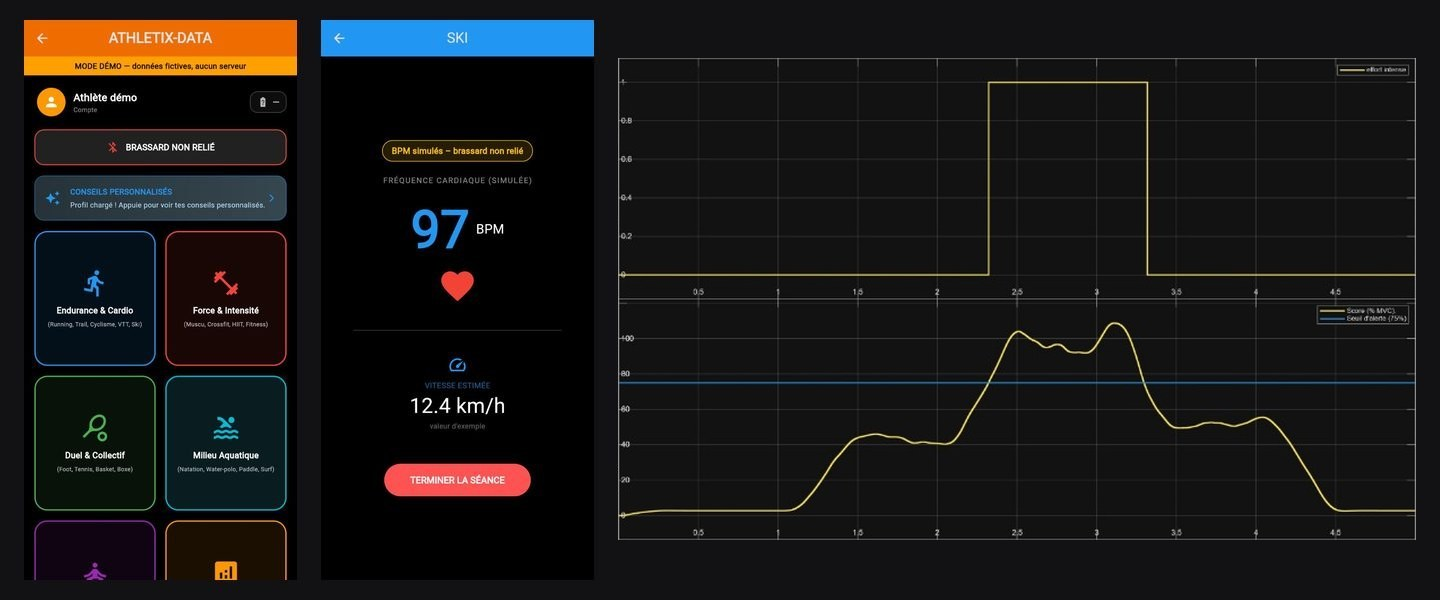
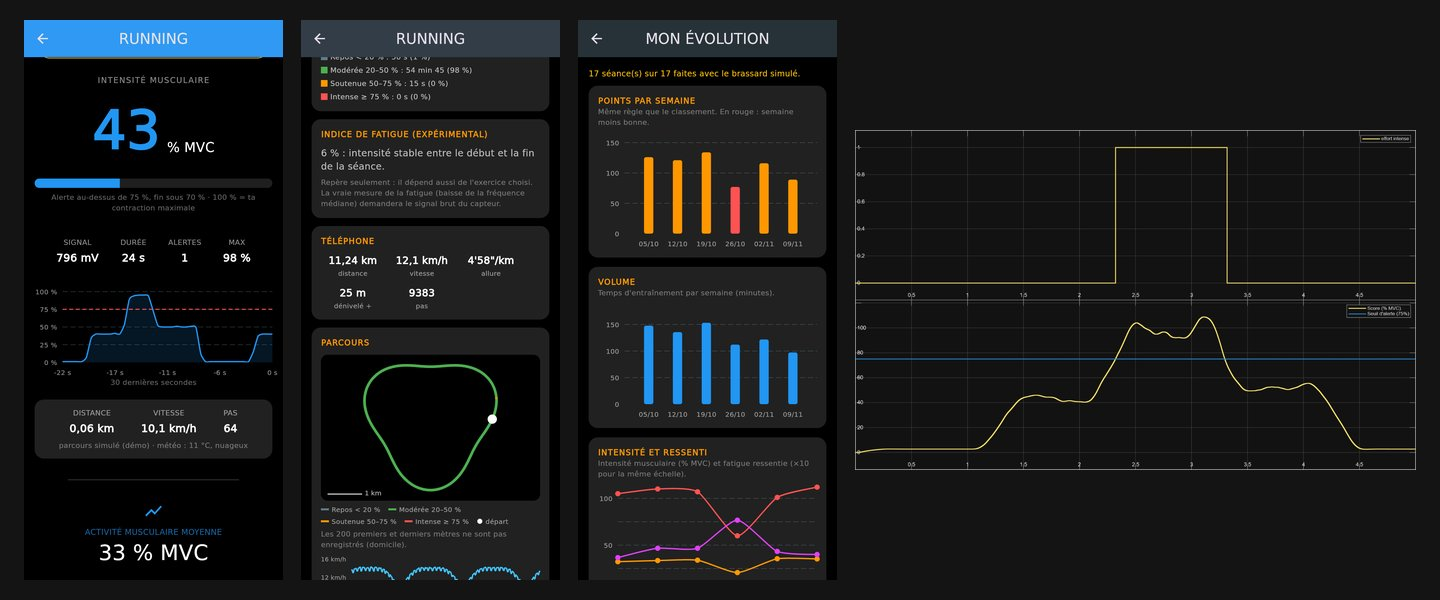
Carte Athletix-Data : parcours, évolution, natation, carnet PDF, RGPD, tests ; nouvelle image

diff --git a/index.html b/index.html
@@ -809,13 +809,13 @@
           </div>
         </article>
         <article class="project-card project-card--wide" data-tags="electronique sante embarque">
-          <div class="card-media card-media--fit"><img src="assets/projets/athletix-data.jpg" alt="Deux écrans de l'application Athletix-Data (accueil et séance) et résultat de la simulation Simulink du brassard EMG" data-i18n-attr="alt:p9.img" width="1440" height="600" loading="lazy" decoding="async"></div>
+          <div class="card-media card-media--fit"><img src="assets/projets/athletix-data.jpg" alt="Trois écrans de l'application Athletix-Data (séance en direct, parcours, évolution) et résultat de la simulation Simulink du brassard EMG" data-i18n-attr="alt:p9.img" width="1440" height="600" loading="lazy" decoding="async"></div>
           <div class="card-top">
             <span class="card-type" data-i18n="tag.electronics">Électronique</span>
             <span class="card-date" data-i18n="p9.date">Juin 2026</span>
           </div>
           <h3 data-i18n="p9.title">Athletix-Data : brassard EMG connecté et application de suivi sportif</h3>
-          <p data-i18n="p9.desc">Projet de groupe à l'EPISEN, mené avec Maxence Olivier et Othmen Al Bydeoi, dont j'ai été le chef de projet. Un brassard mesure l'activité du biceps : capteur MyoWare 2.0, SparkFun ESP32-S3 (conversion 12 bits à 500 Hz, valeur efficace sur 200 ms, envoi en Bluetooth Low Energy) et batterie LiPo. Ma partie : la conduite du projet, le schéma électrique et le câblage du brassard, le firmware ESP32, l'acquisition et le calcul RMS, et l'application Flutter avec son API PHP/MySQL sécurisée (inscription vérifiée par e-mail, profil, conseils, classement). Maxence a modélisé la chaîne de mesure sous Simulink, Othmen a rédigé l'architecture Bluetooth. Le matériel n'est pas encore reçu : pendant une séance, l'application affiche les mesures d'un brassard simulé, indiqué comme tel.</p>
+          <p data-i18n="p9.desc">Projet de groupe à l'EPISEN, mené avec Maxence Olivier et Othmen Al Bydeoi, dont j'ai été le chef de projet. Un brassard mesure l'activité du biceps : capteur MyoWare 2.0, SparkFun ESP32-S3 (conversion 12 bits à 500 Hz, valeur efficace sur 200 ms, envoi en Bluetooth Low Energy) et batterie LiPo. Ma partie : la conduite du projet, le schéma électrique et le câblage du brassard, le firmware ESP32, l'acquisition et le calcul RMS, et l'application Flutter avec son API PHP/MySQL sécurisée (inscription vérifiée par e-mail, profil, conseils, classement). Maxence a modélisé la chaîne de mesure sous Simulink, Othmen a rédigé l'architecture Bluetooth. L'application suit aussi le parcours GPS, l'évolution semaine par semaine et la natation (le brassard garde la séance quand le Bluetooth ne passe plus sous l'eau), exporte un carnet PDF pour les soignants et permet de télécharger ou de supprimer ses données ; ses tests et ceux de l'API tournent sur GitHub à chaque envoi. Le matériel n'est pas encore reçu : pendant une séance, l'application affiche les mesures d'un brassard simulé, indiqué comme tel.</p>
           <ul class="tags"><li>ESP32-S3</li><li>MyoWare 2.0</li><li>Bluetooth LE</li><li>Simulink</li><li>Flutter / Dart</li><li>PHP / MySQL</li></ul>
           <div class="card-foot">
             <span class="card-context" data-i18n="projects.contextTeam">Projet de groupe · EPISEN, 3 étudiants</span>

diff --git a/traduction-anglais.js b/traduction-anglais.js
@@ -234,7 +234,7 @@ window.I18N_EN = {
   'projects.contextTeam': 'Group project · EPISEN, 3 students',
   'p9.date': 'Jun 2026',
   'p9.title': 'Athletix-Data: connected EMG armband and sports-tracking app',
-  'p9.desc': 'Group project at EPISEN with Maxence Olivier and Othmen Al Bydeoi, which I led. An armband measures biceps activity: MyoWare 2.0 sensor, SparkFun ESP32-S3 (12-bit conversion at 500 Hz, 200 ms RMS, Bluetooth Low Energy) and a LiPo battery. My part: running the project, the armband wiring diagram and wiring, the ESP32 firmware, acquisition and RMS computation, and the Flutter app with its secured PHP/MySQL API (e-mail-verified sign-up, profile, advice, leaderboard). Maxence modelled the measurement chain in Simulink, Othmen wrote the Bluetooth architecture. The hardware has not arrived yet: during a workout, the app shows readings from a simulated armband, labelled as such.',
+  'p9.desc': 'Group project at EPISEN with Maxence Olivier and Othmen Al Bydeoi, which I led. An armband measures biceps activity: MyoWare 2.0 sensor, SparkFun ESP32-S3 (12-bit conversion at 500 Hz, 200 ms RMS, Bluetooth Low Energy) and a LiPo battery. My part: running the project, the armband wiring diagram and wiring, the ESP32 firmware, acquisition and RMS computation, and the Flutter app with its secured PHP/MySQL API (e-mail-verified sign-up, profile, advice, leaderboard). Maxence modelled the measurement chain in Simulink, Othmen wrote the Bluetooth architecture. The app also tracks the GPS route, week-by-week progress and swimming (the armband keeps the session when Bluetooth cannot reach it under water), exports a PDF log for carers and lets users download or delete their data; its tests and the API tests run on GitHub on every push. The hardware has not arrived yet: during a workout, the app shows readings from a simulated armband, labelled as such.',
   'tag.signal': 'Signal processing',
   'projects.contextMatlab': 'Course project · EPISEN, ECUE 325',
   'p10.date': 'Sept 2026',
@@ -382,7 +382,7 @@ window.I18N_EN = {
   'p20.img': 'Bearing verdict and life curve',
   'p21.img': 'Wing deformed shape coloured by stress, with support reactions',
   'p7.img': 'Pharmacy back-office dashboard (demo)',
-  'p9.img': 'Two Athletix-Data app screens (home and session) and the Simulink simulation result of the EMG armband',
+  'p9.img': 'Three Athletix-Data app screens (live session, route, progress) and the Simulink simulation result of the EMG armband',
   'p8.img': 'SantéConnect patient area (demo)',
   'p6.img': 'Hand tracking demo page',
   'p10.img': 'Reference signal, distorted signal and FFT spectrum (demo)',

diff --git a/FICHE-PROJET.md b/FICHE-PROJET.md
@@ -131,7 +131,7 @@ Images des cartes (nov. 2026, demandé par Valentin pour alléger) : chaque cart
 - [x] Projet 47 (nov. 2026, idée de Valentin : « ski, snowboard… école d'ingé, santé ») : outils/sports-hiver/ (index.html + hiver.js + tests/test.js, 470 tests), projet personnel, aucune source externe à protéger. 7 onglets : 1) glisse (schuss RK4 = solution exacte v_t·tanh, frottement + traînée + ρ(altitude), pistes verte/bleue/rouge/noire, skieur debout / recherche de vitesse / snowboardeur, énergie → hauteur de chute équivalente ; virage coupé : R = R_sc cos θ (Howe), sin θ = v²/(g R_sc), vitesse maxi √(g R_sc), facteur de charge, skieur incliné) ; 2) genou : torsion 1 ddl, fixation en série avec la jambe, seuil réglable, 4 situations (virage normal, carre qui accroche, chute lente, choc bref filtré), amplification dynamique, limite LCA (« pied fantôme ») ; JAMAIS de calcul de réglage DIN personnel (avertissement : technicien certifié, ISO 11088) ; 3) poignet (snowboard) : impact masse-ressort, neige poudreuse/damée/glacée, protège-poignet (plateau), seuil 2 500 N indicatif ; 4) casque : mousse EPS à plateau + aire de calotte, surface en série, HIC 15 ms, risque AIS ≥ 3 (Prasad-Mertz / NHTSA), test EN 1077 5,42 m/s / 250 g, densification à grande vitesse ; 5) avalanche : dipôle magnétique, recherche par lignes de flux (clic = départ), distance affichée surestimée jusqu'à ×1,26, durée de sauvetage (premier signal, suivi, fine, sondage, pelletage 12 min/m seul ÷ n^0,8), survie Brugger 2001 ; 6) froid : indice JAG/TI 2001 + vitesse du skieur, catégories Environnement Canada ; 7) vérifications. Seuils ILLUSTRATIFS, « pas un outil médical ». Carte p47 après p46 (banc d'optique), filtres mecanique + sante + signal + web, type tag.sport (« Sport et santé »), contexte projects.contextTool. Dépôt PUBLIC ski-snowboard-physique (créé vide par Valentin, affiché « Ski-snowboard-physique », rempli par la session cloud : README FR/EN avec avertissements, demo/ = copie avec lien retour absolu, images/apercu.jpg) ; « Voir le code » sur la carte ; modifier les DEUX copies.
 - [x] Bulle « Énergie » (nov. 2026, demandée par Valentin ; clé tag.energy, data-filter « energie », placée après Électronique) : génératrice d'éolienne (p38) + bobine Tesla (p17). Compteur de projets en haut à gauche de la barre : proposé puis REFUSÉ par Valentin (ne pas le remettre).
 - [x] Nov. 2026 (demandé par Valentin) : bulle « Embarqué » (clé tag.embedded, data-filter « embarque », DERNIÈRE après Web) = projets avec code sur microcontrôleur : transporteur (p32), balnéo (p33), truites (p35), maison connectée (p43), éolienne (p38), Athletix ESP32 (p9). Titre « 02 Projets » : nombre total de cartes au bout de la ligne (discret, gris mono, calculé par script.js via data-count, aligné sur le bord droit de la grille) — pour Valentin, pas d'intitulé.
-- [ ] Athletix-Data = en réalité projet de groupe MESPI (EPISEN, 4 membres, fév.–juin 2026) ; version FINALE = brassard EMG : MyoWare 2.0 + Link Shield + SparkFun Thing Plus ESP32-S3 + LiPo 1500 mAh + BLE + appli Flutter (devis final et compte rendu jalon 4 fournis par Valentin, nov. 2026). Nov. 2026, DÉCISION DE VALENTIN (« c'est un truc propre ») : les NOMS de l'équipe sont affichés (exception à la règle « ne jamais nommer ») : Valentin Auger, Maxence Olivier, Othmen Al Bydeoi (3 = couverture du compte rendu et devis ; Akram Boutabaa, cité dans le corps du compte rendu, RETIRÉ car absent de la couverture). Fait : README du dépôt (équipe + rôles, brassard final, historique PPG, hardware/simulation-emg/ avec figure + limites + corrections prévues ; version CORRIGÉE vérifiée dans le .slx du Drive (dossier « AthletixData_EMG_Simulation(1).slx », décompressé) : Ts 0,0005, Cov 7,1e-9, passe-bande, Lookup 0,95, gain 1000, secteur 0,00008, Relay 75/70 ; page simulation-emg/ réécrite (figure resultat-simulation-corrigee.png recadrée d'une capture, ancienne figure gardée en historique) et image de carte mise à jour ; fichier .slx FINAL publié (hardware/simulation-emg/AthletixData_EMG_Simulation.slx, R2026b, reconstruit depuis le dossier décompressé du Drive, tailles vérifiées) ; présenté comme une EXPÉRIMENTATION (modèle d'essai, pas une mesure sur le brassard), à la demande de Valentin ; figure en meilleure résolution + schema-modele.png ajoutés le 12 nov. 2026) ; README : encadré « Rencontre avec une patiente atteinte de sclérose en plaques » (FR/EN) : entretien avec une patiente (JAMAIS nommée) à l'initiative d'un médecin retraité spécialiste de la SEP ; ses suggestions n'avaient pas été notées → pistes RÉDIGÉES APRÈS COUP et dites comme telles (fatigue / fréquence médiane, chaleur, calibration quotidienne, spasmes et asymétrie, accessibilité, carnet pour les soignants) + « pas un dispositif médical ». Nom du médecin fourni par Valentin (Dr Michel Cunin) NON publié tant que Valentin n'a pas confirmé que le médecin est d'accord. Contributeur « claude » encore affiché dans la barre latérale du dépôt alors que l'historique est propre (API contributors = Valentin seul, 7 commits) : cache GitHub ; le changement de branche par défaut est refusé à la session cloud → FAIT par Valentin le 12 nov. 2026 (branche par défaut recalcul puis main, branche recalcul supprimée) : « claude » a disparu de la liste ; seul le chiffre « 2 » reste (cache GitHub, l'API elle-même était en retard : 7 commits comptés sur 10) → attendre, sinon support GitHub. 12 nov. 2026, relecture de l'appli transmise par Valentin → corrigé et démo recompilée (Flutter 3.47.9 installé dans /opt/flutter-dl de la session ; canvaskit chargé depuis gstatic comme avant ; balises og: remises à la main dans docs/index.html après chaque build) : conseils sans contradiction (nombre de séances UNIQUEMENT dans la carte « Rythme » : niveau + fréquence déclarée ; Débutant 2–3, Intermédiaire 3–4, Pro 4–6), poids/taille utilisés (IMC avec virgule, protéines 1,6–2 g/kg, alerte perte de poids si IMC < 18,5), questionnaire PRÉ-REMPLI à la mise à jour, « Changer de compte » → écran de connexion / « Se déconnecter » → page d'accueil, WorkoutSession supprimé, moteurs GPS/gyro remplacés par des mesures EMG (valeurs d'exemple), icône batterie par paliers, descriptions des catégories générées depuis la liste (aviron, apnée déplacée en Milieu aquatique). Testé avec Playwright. Schéma « câblage présumé » (hardware/cablage-presume.svg + .png, rendu par Playwright) ajouté au README (partie FR, au-dessus du schéma Simulink), dessiné d'après la LISTE des composants du devis (le devis lui-même n'est PAS publié) : électrodes SEN-12969 → MyoWare 2.0 + Link Shield → jack 3,5 mm → Thing Plus ESP32-S3 (A0, 3V3, GND) ; LiPo 1500 mAh → DS12LR → prise JST ; BLE → téléphone ; « non testé, matériel pas encore reçu » ; inverseurs GR33/GA55 et résistances 150 Ω non représentés (usage inconnu) ; câble Qwiic = I2C, ne transporte pas le signal. 12 nov. 2026 : contribution d'Othmen (Othmen94, collaborateur) : architecture BLE/GATT, MCD/MLD/MCT, migration SQL, save_seance/save_calibration.php, brassard simulé dans l'écran de séance, firmware de test faux-brassard-ble, 13 tests ; relue (compile, tests OK, aucun secret), PR #1 FUSIONNÉE (avance rapide poussée par la session, le bouton de contournement ne marchait pas chez Valentin) ; Othmen a remplacé son Gmail par son adresse noreply avant la fusion ; démo recompilée. Verrou : exception « Othmen/* » GARDÉE volontairement (décision de Valentin) pour qu'Othmen puisse proposer d'autres branches othmen/… ; main et le reste restent verrouillés, seul Valentin (admin) fusionne. Branche othmen/architecture-ble supprimée par Valentin. Contributeurs = 2 (Valentin + Othmen), voulu. Images de la simulation affichées UNE fois sur la page principale (partie FR), pas dans la partie EN (demandé par Valentin), toujours sur la page simulation-emg/ et carte p9 (« Juin 2026 », titre brassard EMG, « Ma partie… », clé projects.contextTeam « Projet de groupe · EPISEN, 3 étudiants », image = écrans de l'appli + figure Simulink). 12 nov. 2026 (soir), à la demande de Valentin (« fais les 17 tâches sans le matériel ») : FAIT 11/17 → API testée sur MariaDB réelle (tests/api/test_api.sh, 41 vérif., garde ATHLETIX_TEST=1 car il vide la base), get_seances.php, score classement (10 + min × moy/50, 30 j, simulées exclues — PROPOSITION à valider), migration 002 (DROP performances + hardware_status, get_hardware lit brassards, champ batterie), BrassardBle (flutter_blue_plus 2.3.14, License.nonprofit, web + Android), écrans Brassard / Calibration / Mes séances / consentement (shared_preferences 2.5.6), projet android/ (fr.athletixdata.athletix_data, permissions BLE, cleartext pour XAMPP) — APK NON compilé (dl.google.com bloqué), firmware final hardware/firmware-brassard/ (calcul_emg.h testé g++ 27 vérif. ; .ino vérifié avec imitations, PAS compilé ESP32 : outils Arduino bloqués), fiches SparkFun vérifiées via recherche web (A0 = GPIO10, MAX17048 0x36 GPIO8/9, Link Shield interrupteur ENV, jack pointe/bague/corps, câble TRS vendu à part) → faux brassard corrigé GPIO1 → GPIO10, schéma mis à jour, hardware/PROTOCOLE-DE-TEST.md, liste de pièces à compléter. Décision : web pour la démo, Android (Android Studio) pour le vrai brassard. Restent : valider le score, tester faux brassard sur ESP32, compléter la commande, boîtier, Gantt (Maxence), rapport jalon 1 (compte rendu jalon 4 de 1re année fourni par Valentin, en scratchpad mespi/, NE PAS publier : noms dont Akram, 4 membres). ⚠ Le PDF « compte rendu jalon 4 » de Maxence n'est PAS un rendu : brouillon personnel fait à l'arrache pour comprendre le projet (dit par Valentin) ; le VRAI jalon 4 = le fichier Excel du devis. Ne pas s'en servir comme référence ni pour attribuer des tâches (son contenu technique vient de Valentin). MPM = Valentin (confirmé), Gantt = Maxence. Pièces manquantes (câble jack, embase, électrodes) : commande déjà passée, impossible d'ajouter → solutions documentées sans achat : câble audio stéréo 3,5 mm TRS recyclé, coupé et soudé (kit WTS100 du devis), électrodes ECG à pression standard (pharmacie / salle de TP). README : lien « 📋 Feuille de route » tout en haut (FR + EN). Feuille de route §4 « Compléter l'application » (GPS, accéléromètre, météo, ceinture cardio BLE 0x180D car l'EMG biceps ne mesure pas le cœur, graphiques, fatigue, contexte de séance, tableau des pistes SEP : 2/7 faites) ; proposé à Valentin de coder la partie graphiques + contexte en premier. FAIT le 12 nov. 2026 (soir, « on va tout faire d'un coup ») : §4 codé (commit c2bbcc8) = courbe en direct 30 s, détail de séance (courbe 5 s, zones, contractions, GPS, cœur, météo, ressenti, indice de fatigue EXPÉRIMENTAL expliqué), Mon évolution (points/volume par semaine, intensité + fatigue ressentie, records, semaines moins bonnes ≥ 15 % avec causes tirées du ressenti), ressenti après séance (fatigue/douleur 0–10, sommeil, commentaire), GPS + pas (geolocator, sensors_plus ; parcours INVENTÉ en démo, dit), météo Open-Meteo (CC BY 4.0, position arrondie ~1 km), ceinture cardio 0x180D (écran Brassard), Réglages (grands caractères, vibration, voix flutter_tts, mode adapté 60/55 %, pause 10 min, chaleur > 25 °C), export CSV soignants (share_plus) ; migration 003, API 49 vérif., 47 tests Flutter ; démo : 6 semaines fictives dont la 4e moins bonne ; testé dans le navigateur seulement (GPS/capteurs/vibration à essayer sur Android). PUIS (12 nov. 2026, soir, « rendre l'application quasiment finie ») : commits 1e0347e + 5bd2161 = natation (firmware 1.1 : commandes 0x05/0x06, caractéristique abad0005 « résumé hors ligne », arrêt auto après 5 min < 10 %, effacement seulement après enregistrement ; copie Dart du calcul = MÊMES octets que le C++, testé ; brassard simulé accéléré ×60 ; prototype NON ÉTANCHE, dit partout, test à sec ajouté au protocole étape 7), tracé GPS coloré par l'intensité (sans les 200 premiers/derniers mètres, aucun service de cartes) + vitesse/intensité le long du parcours, séries en muscu, envoi différé sans réseau (client_uuid, fin_il_y_a_s), objectif de la semaine sur l'accueil, carnet PDF (package pdf, Apache 2.0) + CSV, RGPD (export_donnees.php, supprimer_compte.php, écran « Mon compte et mes données »), migration 004, tests GitHub Actions (application, API sur MariaDB 11.4, firmware) VERTS + badge, tools/build_web.sh (anti-cache ?v= : Valentin croyait que la démo n'était pas à jour = cache navigateur), démo datée jusqu'au jour même (semaine en cours visible). Compteurs : 67 tests Flutter, 68 vérif. API, 41 firmware. FEUILLE-DE-ROUTE.md REFAITE (où en est le projet, ce qui est fait, reste sans matériel, réception, finaliser, plus tard, pistes SEP, répartition) ; README à jour (FR + EN, 5 nouvelles captures). Rapport du jalon 1 : à rendre le LUNDI 16 NOV. 2026 (Valentin veut le faire après, pas tout de suite). Restent (plus tard) : vraie fatigue (RAW), capteur de température, 2e brassard, fond de carte, HTTPS/appairage, version anglaise. FEUILLE-DE-ROUTE.md (12 nov. 2026, demandée par Valentin : matériel commandé par l'école seulement en nov. alors que demandé en juin, livraison dans 1 mois au plus tôt) = état du projet, à faire SANS le matériel, à la réception, pour finaliser, répartition proposée ; résumé « Où en est le projet » dans le README (FR + EN). Gantt = Maxence, MPM = Valentin. RÔLES (dit par Valentin, 12 nov. 2026) : VALENTIN = CHEF DE PROJET (pas Maxence, qui ne faisait rien) + tout le reste (application Flutter, API PHP/MySQL, câblage, ESP32, documentation) ; Maxence = uniquement la simulation Simulink ; Othmen = architecture BLE et ses ajouts du dépôt. README (tableau équipe FR/EN) et carte p9 (FR/EN, « dont j'ai été le chef de projet », brassard simulé) mis à jour. Simulation Simulink (AthletixData_EMG_Simulation.slx, Drive) faite par MAXENCE OLIVIER (dit par Valentin, 12 nov. 2026) : créditée dans le README (ligne de Maxence dans le tableau de l'équipe, paragraphe du brassard, page simulation-emg/, FR et EN). Revue faite (nov. 2026) : bruit Ts 0,1 s (escalier 10 Hz, pics dus au hasard) → Ts 0,0005 + passe-bande 20–450 Hz + profil d'effort (Lookup) + gain MyoWare ×1000 ; alerte = intensité (pas fatigue) → Relay 75/70 ; MVC 1,85 V supposée ; corrections du compte rendu (fatigue, chiffres, ESP32 DevKit vs S3, 1000 vs 1500 mAh, Link Shield ≠ I2C). JAMAIS publier le devis ni le compte rendu (noms des coéquipiers), ni les captures MATLAB Online (identifiant de compte).
+- [ ] Athletix-Data = en réalité projet de groupe MESPI (EPISEN, 4 membres, fév.–juin 2026) ; version FINALE = brassard EMG : MyoWare 2.0 + Link Shield + SparkFun Thing Plus ESP32-S3 + LiPo 1500 mAh + BLE + appli Flutter (devis final et compte rendu jalon 4 fournis par Valentin, nov. 2026). Nov. 2026, DÉCISION DE VALENTIN (« c'est un truc propre ») : les NOMS de l'équipe sont affichés (exception à la règle « ne jamais nommer ») : Valentin Auger, Maxence Olivier, Othmen Al Bydeoi (3 = couverture du compte rendu et devis ; Akram Boutabaa, cité dans le corps du compte rendu, RETIRÉ car absent de la couverture). Fait : README du dépôt (équipe + rôles, brassard final, historique PPG, hardware/simulation-emg/ avec figure + limites + corrections prévues ; version CORRIGÉE vérifiée dans le .slx du Drive (dossier « AthletixData_EMG_Simulation(1).slx », décompressé) : Ts 0,0005, Cov 7,1e-9, passe-bande, Lookup 0,95, gain 1000, secteur 0,00008, Relay 75/70 ; page simulation-emg/ réécrite (figure resultat-simulation-corrigee.png recadrée d'une capture, ancienne figure gardée en historique) et image de carte mise à jour ; fichier .slx FINAL publié (hardware/simulation-emg/AthletixData_EMG_Simulation.slx, R2026b, reconstruit depuis le dossier décompressé du Drive, tailles vérifiées) ; présenté comme une EXPÉRIMENTATION (modèle d'essai, pas une mesure sur le brassard), à la demande de Valentin ; figure en meilleure résolution + schema-modele.png ajoutés le 12 nov. 2026) ; README : encadré « Rencontre avec une patiente atteinte de sclérose en plaques » (FR/EN) : entretien avec une patiente (JAMAIS nommée) à l'initiative d'un médecin retraité spécialiste de la SEP ; ses suggestions n'avaient pas été notées → pistes RÉDIGÉES APRÈS COUP et dites comme telles (fatigue / fréquence médiane, chaleur, calibration quotidienne, spasmes et asymétrie, accessibilité, carnet pour les soignants) + « pas un dispositif médical ». Nom du médecin fourni par Valentin (Dr Michel Cunin) NON publié tant que Valentin n'a pas confirmé que le médecin est d'accord. Contributeur « claude » encore affiché dans la barre latérale du dépôt alors que l'historique est propre (API contributors = Valentin seul, 7 commits) : cache GitHub ; le changement de branche par défaut est refusé à la session cloud → FAIT par Valentin le 12 nov. 2026 (branche par défaut recalcul puis main, branche recalcul supprimée) : « claude » a disparu de la liste ; seul le chiffre « 2 » reste (cache GitHub, l'API elle-même était en retard : 7 commits comptés sur 10) → attendre, sinon support GitHub. 12 nov. 2026, relecture de l'appli transmise par Valentin → corrigé et démo recompilée (Flutter 3.47.9 installé dans /opt/flutter-dl de la session ; canvaskit chargé depuis gstatic comme avant ; balises og: remises à la main dans docs/index.html après chaque build) : conseils sans contradiction (nombre de séances UNIQUEMENT dans la carte « Rythme » : niveau + fréquence déclarée ; Débutant 2–3, Intermédiaire 3–4, Pro 4–6), poids/taille utilisés (IMC avec virgule, protéines 1,6–2 g/kg, alerte perte de poids si IMC < 18,5), questionnaire PRÉ-REMPLI à la mise à jour, « Changer de compte » → écran de connexion / « Se déconnecter » → page d'accueil, WorkoutSession supprimé, moteurs GPS/gyro remplacés par des mesures EMG (valeurs d'exemple), icône batterie par paliers, descriptions des catégories générées depuis la liste (aviron, apnée déplacée en Milieu aquatique). Testé avec Playwright. Schéma « câblage présumé » (hardware/cablage-presume.svg + .png, rendu par Playwright) ajouté au README (partie FR, au-dessus du schéma Simulink), dessiné d'après la LISTE des composants du devis (le devis lui-même n'est PAS publié) : électrodes SEN-12969 → MyoWare 2.0 + Link Shield → jack 3,5 mm → Thing Plus ESP32-S3 (A0, 3V3, GND) ; LiPo 1500 mAh → DS12LR → prise JST ; BLE → téléphone ; « non testé, matériel pas encore reçu » ; inverseurs GR33/GA55 et résistances 150 Ω non représentés (usage inconnu) ; câble Qwiic = I2C, ne transporte pas le signal. 12 nov. 2026 : contribution d'Othmen (Othmen94, collaborateur) : architecture BLE/GATT, MCD/MLD/MCT, migration SQL, save_seance/save_calibration.php, brassard simulé dans l'écran de séance, firmware de test faux-brassard-ble, 13 tests ; relue (compile, tests OK, aucun secret), PR #1 FUSIONNÉE (avance rapide poussée par la session, le bouton de contournement ne marchait pas chez Valentin) ; Othmen a remplacé son Gmail par son adresse noreply avant la fusion ; démo recompilée. Verrou : exception « Othmen/* » GARDÉE volontairement (décision de Valentin) pour qu'Othmen puisse proposer d'autres branches othmen/… ; main et le reste restent verrouillés, seul Valentin (admin) fusionne. Branche othmen/architecture-ble supprimée par Valentin. Contributeurs = 2 (Valentin + Othmen), voulu. Images de la simulation affichées UNE fois sur la page principale (partie FR), pas dans la partie EN (demandé par Valentin), toujours sur la page simulation-emg/ et carte p9 (« Juin 2026 », titre brassard EMG, « Ma partie… », clé projects.contextTeam « Projet de groupe · EPISEN, 3 étudiants », image = écrans de l'appli + figure Simulink). 12 nov. 2026 (soir), à la demande de Valentin (« fais les 17 tâches sans le matériel ») : FAIT 11/17 → API testée sur MariaDB réelle (tests/api/test_api.sh, 41 vérif., garde ATHLETIX_TEST=1 car il vide la base), get_seances.php, score classement (10 + min × moy/50, 30 j, simulées exclues — PROPOSITION à valider), migration 002 (DROP performances + hardware_status, get_hardware lit brassards, champ batterie), BrassardBle (flutter_blue_plus 2.3.14, License.nonprofit, web + Android), écrans Brassard / Calibration / Mes séances / consentement (shared_preferences 2.5.6), projet android/ (fr.athletixdata.athletix_data, permissions BLE, cleartext pour XAMPP) — APK NON compilé (dl.google.com bloqué), firmware final hardware/firmware-brassard/ (calcul_emg.h testé g++ 27 vérif. ; .ino vérifié avec imitations, PAS compilé ESP32 : outils Arduino bloqués), fiches SparkFun vérifiées via recherche web (A0 = GPIO10, MAX17048 0x36 GPIO8/9, Link Shield interrupteur ENV, jack pointe/bague/corps, câble TRS vendu à part) → faux brassard corrigé GPIO1 → GPIO10, schéma mis à jour, hardware/PROTOCOLE-DE-TEST.md, liste de pièces à compléter. Décision : web pour la démo, Android (Android Studio) pour le vrai brassard. Restent : valider le score, tester faux brassard sur ESP32, compléter la commande, boîtier, Gantt (Maxence), rapport jalon 1 (compte rendu jalon 4 de 1re année fourni par Valentin, en scratchpad mespi/, NE PAS publier : noms dont Akram, 4 membres). ⚠ Le PDF « compte rendu jalon 4 » de Maxence n'est PAS un rendu : brouillon personnel fait à l'arrache pour comprendre le projet (dit par Valentin) ; le VRAI jalon 4 = le fichier Excel du devis. Ne pas s'en servir comme référence ni pour attribuer des tâches (son contenu technique vient de Valentin). MPM = Valentin (confirmé), Gantt = Maxence. Pièces manquantes (câble jack, embase, électrodes) : commande déjà passée, impossible d'ajouter → solutions documentées sans achat : câble audio stéréo 3,5 mm TRS recyclé, coupé et soudé (kit WTS100 du devis), électrodes ECG à pression standard (pharmacie / salle de TP). README : lien « 📋 Feuille de route » tout en haut (FR + EN). Feuille de route §4 « Compléter l'application » (GPS, accéléromètre, météo, ceinture cardio BLE 0x180D car l'EMG biceps ne mesure pas le cœur, graphiques, fatigue, contexte de séance, tableau des pistes SEP : 2/7 faites) ; proposé à Valentin de coder la partie graphiques + contexte en premier. FAIT le 12 nov. 2026 (soir, « on va tout faire d'un coup ») : §4 codé (commit c2bbcc8) = courbe en direct 30 s, détail de séance (courbe 5 s, zones, contractions, GPS, cœur, météo, ressenti, indice de fatigue EXPÉRIMENTAL expliqué), Mon évolution (points/volume par semaine, intensité + fatigue ressentie, records, semaines moins bonnes ≥ 15 % avec causes tirées du ressenti), ressenti après séance (fatigue/douleur 0–10, sommeil, commentaire), GPS + pas (geolocator, sensors_plus ; parcours INVENTÉ en démo, dit), météo Open-Meteo (CC BY 4.0, position arrondie ~1 km), ceinture cardio 0x180D (écran Brassard), Réglages (grands caractères, vibration, voix flutter_tts, mode adapté 60/55 %, pause 10 min, chaleur > 25 °C), export CSV soignants (share_plus) ; migration 003, API 49 vérif., 47 tests Flutter ; démo : 6 semaines fictives dont la 4e moins bonne ; testé dans le navigateur seulement (GPS/capteurs/vibration à essayer sur Android). PUIS (12 nov. 2026, soir, « rendre l'application quasiment finie ») : commits 1e0347e + 5bd2161 = natation (firmware 1.1 : commandes 0x05/0x06, caractéristique abad0005 « résumé hors ligne », arrêt auto après 5 min < 10 %, effacement seulement après enregistrement ; copie Dart du calcul = MÊMES octets que le C++, testé ; brassard simulé accéléré ×60 ; prototype NON ÉTANCHE, dit partout, test à sec ajouté au protocole étape 7), tracé GPS coloré par l'intensité (sans les 200 premiers/derniers mètres, aucun service de cartes) + vitesse/intensité le long du parcours, séries en muscu, envoi différé sans réseau (client_uuid, fin_il_y_a_s), objectif de la semaine sur l'accueil, carnet PDF (package pdf, Apache 2.0) + CSV, RGPD (export_donnees.php, supprimer_compte.php, écran « Mon compte et mes données »), migration 004, tests GitHub Actions (application, API sur MariaDB 11.4, firmware) VERTS + badge, tools/build_web.sh (anti-cache ?v= : Valentin croyait que la démo n'était pas à jour = cache navigateur), démo datée jusqu'au jour même (semaine en cours visible). Compteurs : 67 tests Flutter, 68 vérif. API, 41 firmware. FEUILLE-DE-ROUTE.md REFAITE (où en est le projet, ce qui est fait, reste sans matériel, réception, finaliser, plus tard, pistes SEP, répartition) ; README à jour (FR + EN, 5 nouvelles captures). Rapport du jalon 1 : à rendre le LUNDI 16 NOV. 2026 (Valentin veut le faire après, pas tout de suite). ENSUITE (12–13 nov. 2026, Valentin : « je te valide tout ») : règle de score VALIDÉE (docs + code) ; schéma de câblage complété (capteur posé sur le biceps, électrodes MID/END clipsées sous la carte d'après le guide SparkFun, électrodes ECG standard, câble audio recyclé 3 contacts, ⚠ polarité JST, pas étanche) ; APK compilé et publié par GitHub Actions (workflow apk.yml, release « apk » : github.com/Valentin-Auger-Laboratoire/athletix-data/releases/tag/apk, 59 Mo, clé de debug ; variable de dépôt API_BASE_URL pour un vrai serveur) ; Gantt REFAIT par la session (gestion-projet/gantt.xlsx modifiable + 2 PNG : année 1 = plan A–I du Gantt de Maxence + statut, année 2 sept. 2026 → janv. 2027 ; livraison et soutenance À CONFIRMER, soutenance supposée 29 janv. 2027) ; relecture de sécurité (doublon simultané rattrapé, isolation entre comptes testée, injection CSV neutralisée, limites connues écrites dans INTEGRATION.md) → 77 vérif. API, 68 tests Flutter ; carte p9 du portfolio mise à jour (texte FR/EN + image : séance, parcours, évolution + figure Simulink). Le nom du médecin reste NON publié (il faut l'accord du médecin lui-même, pas seulement celui de Valentin). Restent (plus tard) : vraie fatigue (RAW), capteur de température, 2e brassard, fond de carte, HTTPS/appairage, version anglaise. FEUILLE-DE-ROUTE.md (12 nov. 2026, demandée par Valentin : matériel commandé par l'école seulement en nov. alors que demandé en juin, livraison dans 1 mois au plus tôt) = état du projet, à faire SANS le matériel, à la réception, pour finaliser, répartition proposée ; résumé « Où en est le projet » dans le README (FR + EN). Gantt = Maxence, MPM = Valentin. RÔLES (dit par Valentin, 12 nov. 2026) : VALENTIN = CHEF DE PROJET (pas Maxence, qui ne faisait rien) + tout le reste (application Flutter, API PHP/MySQL, câblage, ESP32, documentation) ; Maxence = uniquement la simulation Simulink ; Othmen = architecture BLE et ses ajouts du dépôt. README (tableau équipe FR/EN) et carte p9 (FR/EN, « dont j'ai été le chef de projet », brassard simulé) mis à jour. Simulation Simulink (AthletixData_EMG_Simulation.slx, Drive) faite par MAXENCE OLIVIER (dit par Valentin, 12 nov. 2026) : créditée dans le README (ligne de Maxence dans le tableau de l'équipe, paragraphe du brassard, page simulation-emg/, FR et EN). Revue faite (nov. 2026) : bruit Ts 0,1 s (escalier 10 Hz, pics dus au hasard) → Ts 0,0005 + passe-bande 20–450 Hz + profil d'effort (Lookup) + gain MyoWare ×1000 ; alerte = intensité (pas fatigue) → Relay 75/70 ; MVC 1,85 V supposée ; corrections du compte rendu (fatigue, chiffres, ESP32 DevKit vs S3, 1000 vs 1500 mAh, Link Shield ≠ I2C). JAMAIS publier le devis ni le compte rendu (noms des coéquipiers), ni les captures MATLAB Online (identifiant de compte).
 - [ ] Mécanique à venir : boîtier Fusion 360 d'Athletix-Data, REPORTÉ (Valentin s'en occupe plus tard). Sur le SSD : le dossier myoware_pregnancy est un modèle d'une autre personne (SolidWorks 2017, 2019, GrabCAD ?) → NE PAS publier ; « v1 (Assemblage).step » = 2,8 Ko, vide (composants liés). Son vrai travail est dans le cloud Autodesk (« v1 », « v1 (Assemblage) », « ESP32 dev Kit v1 », 15 mai 2026) : rompre les liens ou exporter le design « v1 » seul (STEP > 100 Ko + STL).
 - [ ] SSD externe de Valentin (X:\PROJET111, ~2 300 fichiers, inventaire fait par une session LOCALE sur son PC, nov. 2026). Projets STI2D / CPGE / perso. Valentin : TOUT est son travail ; les prénoms dans les fichiers (« Quentin », « Kumaran », « valentin_quentin »…) sont ceux de personnes à qui il a PRÊTÉ ses fichiers → les RETIRER avant publication (vie privée), sans remettre en cause la paternité. Exclure seulement les composants standard téléchargés (bibliothèques SolidWorks, libraries Arduino) et ne pas citer de nom de prof. Candidats : voiture / transporteur autonome (STI2D 2022, priorité), balnéothérapie (STI2D Tle), support de téléphone découpe laser, détecteur, plateau, badge RFID, TP Arduino/LCD/imprimante 3D, synthèse MaxPID (TSI), les différents TIPE (sauf celui de la lampe). ⚠ MÉDIAS (nov. 2026, décision FINALE de Valentin, après plusieurs revirements) : ses photos et vidéos d'origine PEUVENT être publiées s'il n'y a AUCUN VISAGE (montages, câblage, mains : OK). Visage visible (ex. photos/vidéo du tir au basket) : JAMAIS. Il revérifiera ensuite et pourra demander d'en retirer. Schémas redessinés (SVG) bienvenus en plus. AUGER VALENTINJ.pdf = projet basket (pas un CV), AUGER.pdf.pdf = pistes de sujets (pas un CV). Ancienne note — Possibles CV : TSI ET AUTRE/AUGER VALENTINJ.pdf et AUGER.pdf.pdf (à vérifier, sûrement anciens).
 - [x] Projet réseau : POC téléradiologie (voir projet 13). Option : homelab perso (domotique / NAS) plus tard.
